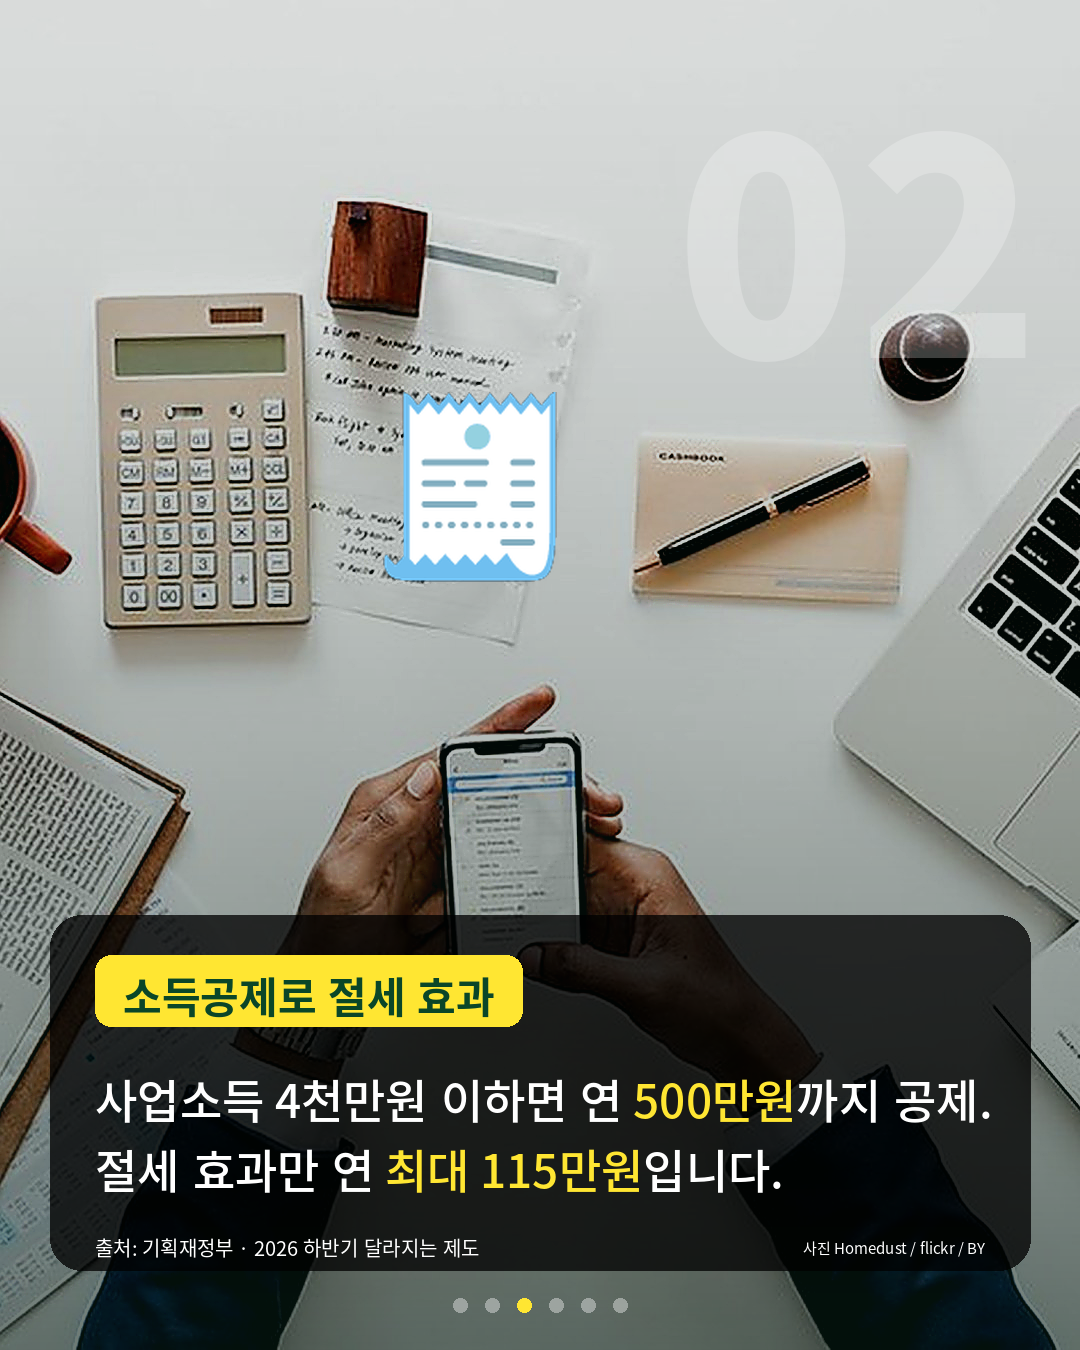
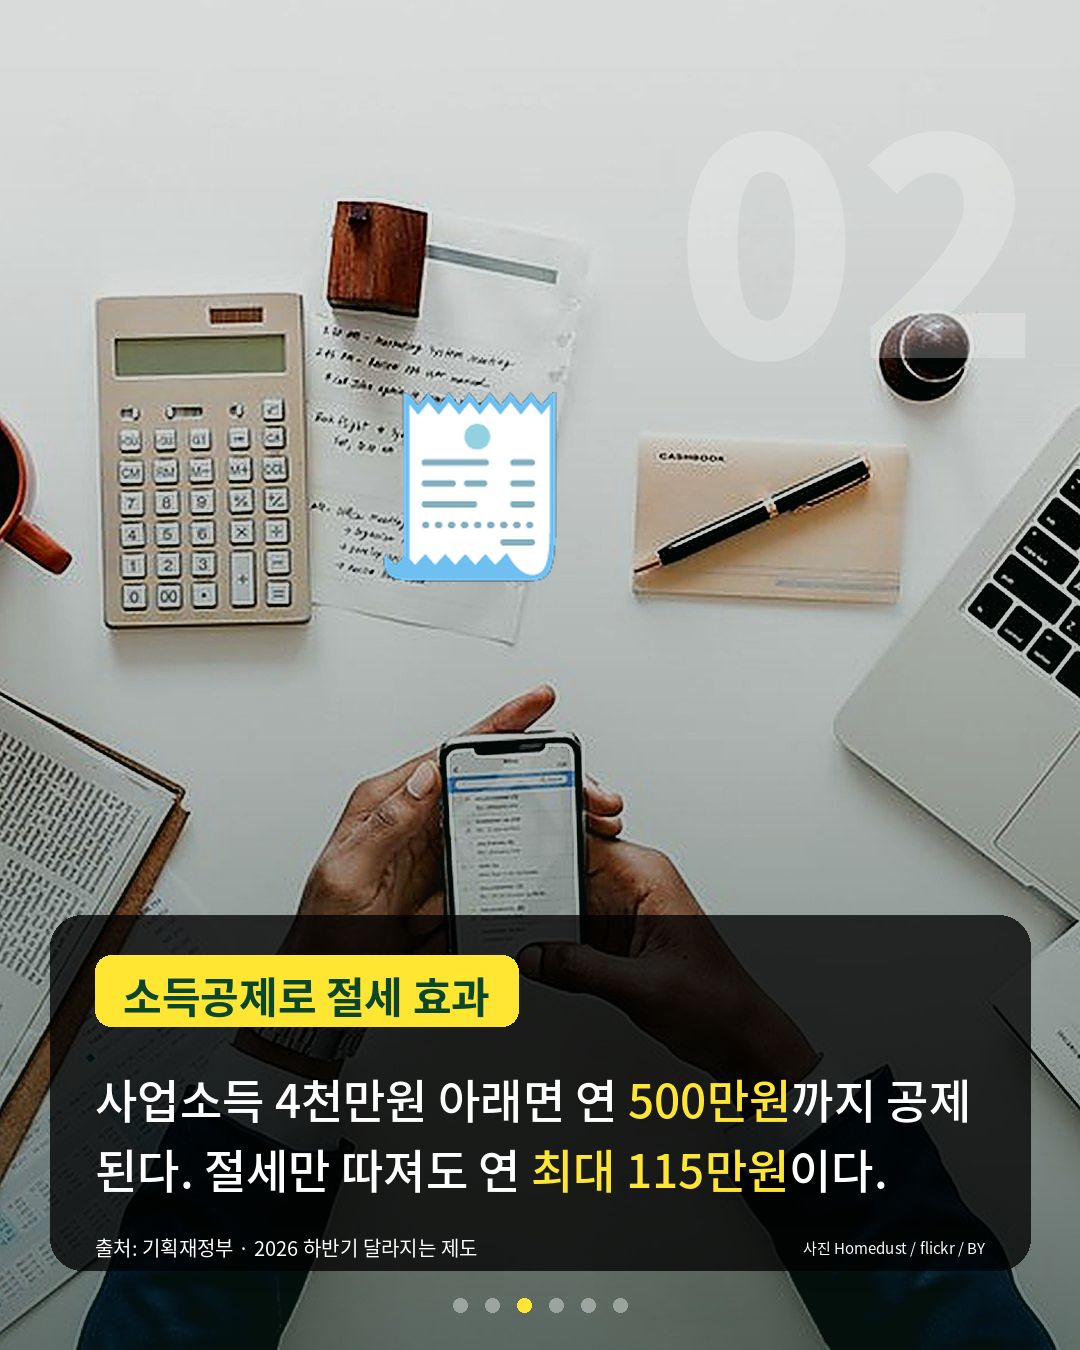
본문을 경상도 사투리로 — 계정 컨셉과 톤 일치
계정명 "쫌봐봐"는 사투리인데 본문·안내 문구는 표준어 존댓말이라
간판과 속이 따로 놀았다. 사투리가 장식으로 보이지 않게 톤을 맞춘다.

- 대본 3편의 커버·본문을 경상도 말투로 교체. 수치·날짜·기관명은 불변
- 고정 문구도 동일 톤으로: 스와이프 "옆으로 쫌 봐봐",
  아웃트로 "도움 됐으면 / 팔로우하고 저장해두이소 / 매일 쫌 봐봐"
- 계정 핸들을 IG_HANDLE 환경변수로 분리 (새 계정으로 옮길 때 한 줄만 바꾸면 됨)
- scriptgen 프롬프트에 말투 규칙 추가 — 어미·리듬으로만 사투리를 내고
  방언 어휘는 피한다(전국 독자), "다 아이가"류는 장면당 1회 제한,
  숫자·기관명 변경 금지

Claude-Session: https://claude.ai/code/session_01W4yCPYAiRNGdqbEFr8kcA6

Changed region(s): [[0.0917, 0.7778, 0.9167, 0.9333], [0.3056, 0.7156, 0.4889, 0.7467]]

diff --git a/cardnews.py b/cardnews.py
@@ -124,6 +124,19 @@ DEF_THEME = {
 WHITE = (255, 255, 255)
 DARK  = (20, 20, 25)
 
+# ── 고정 문구 ──────────────────────
+# 계정 말투가 경상도 사투리라, 이름만 사투리고 본문·안내가 표준어면
+# 간판과 속이 따로 논다. 고정 문구도 같은 말투로 맞춘다.
+# 핸들은 계정이 바뀔 수 있으므로 환경변수로 뺀다.
+HANDLE = os.environ.get("IG_HANDLE", "@richup_bm_sw")
+UI = {
+    "swipe":    "옆으로 쫌 봐봐",
+    "outro1":   "도움 됐으면",
+    "outro2":   "팔로우하고 저장해두이소",
+    "outro_s1": "세상 돌아가는 이야기",
+    "outro_s2": "매일 쫌 봐봐",
+}
+
 def get_t(cat):
     return THEMES.get(cat, DEF_THEME)
 
@@ -462,7 +475,7 @@ def make_cover(sc, t, photo=None, credit=None):
 
     # 스와이프 안내 (이모지 + 텍스트 분리 렌더)
     sf = font(FONT_BOLD, 28)
-    swipe = "밀어서 자세히 보기"
+    swipe = UI["swipe"]
     bb = d.textbbox((0,0), swipe, font=sf)
     sx = (W - (bb[2]-bb[0]) - 46)//2
     paste_emoji(img, "👉", sx + 17, H-82, 34)
@@ -586,21 +599,21 @@ def make_outro(sc, t, total):
 
     y = cy + cr + 64
     f1 = font(FONT_BLACK, 54)
-    for txt, col in [("도움이 되셨다면", WHITE), ("팔로우 & 저장 해주세요!", t["accent"])]:
+    for txt, col in [(UI["outro1"], WHITE), (UI["outro2"], t["accent"])]:
         bb = d.textbbox((0,0), txt, font=f1)
         d.text(((W-(bb[2]-bb[0]))//2, y), txt, font=f1, fill=col)
         y += 80
 
     y += 24
     f2 = font(FONT_MED, 32)
-    for txt in ["매일 알아두면 좋은 생활 정보를", "카드뉴스로 전해드립니다"]:
+    for txt in [UI["outro_s1"], UI["outro_s2"]]:
         bb = d.textbbox((0,0), txt, font=f2)
         d.text(((W-(bb[2]-bb[0]))//2, y), txt, font=f2, fill=(255, 255, 255, 210))
         y += 50
 
     # 핸들
     hf = font(FONT_BOLD, 38)
-    handle = "@richup_bm_sw"
+    handle = HANDLE
     hb = d.textbbox((0,0), handle, font=hf)
     d.text(((W-(hb[2]-hb[0]))//2, handle_y+24), handle, font=hf, fill=t["accent"])
 

diff --git a/scriptgen.py b/scriptgen.py
@@ -446,6 +446,18 @@ LLM_SYSTEM = """당신은 이슈 릴스 계정의 대본 작가입니다.
 - 수치는 읽기 쉽게: "230000만원"이 아니라 "23억원", "84.99제곱미터"가 아니라 "84제곱미터"
 - 마지막 장면은 항상 팔로우 유도
 
+## 말투 — 경상도 사투리 (계정 컨셉)
+계정 이름이 "쫌봐봐"이고 경상도 말투가 컨셉입니다. 본문(body)은 사투리로 씁니다.
+
+- 어미를 경상도식으로: "~입니다/~습니다" → "~다", "~한다", "~된다", "~라"
+  (예: "금지됩니다" → "금지다", "확대됩니다" → "더 늘린다", "설치하세요" → "깔아둬라")
+- 한 장면에 "~다 아이가", "~제" 같은 표현을 **최대 한 번만**. 남발하면 느끼해집니다
+- 난해한 방언 어휘는 쓰지 마세요. 전국 팔로워가 읽습니다.
+  어미와 리듬으로 경상도를 내고, 단어는 표준어를 씁니다
+- **숫자·날짜·기관명·제도명은 절대 바꾸지 마세요.** 말투만 바꿉니다
+  ("8월 28일", "최대 50배", "문화체육관광부"는 그대로)
+- 비아냥·반말 명령조는 금지. 친한 동네 형이 알려주는 톤입니다
+
 ## 자막
 - **22자 이내**. 내레이션을 그대로 넣지 마세요
 - 핵심 명사구만. 어미를 자르지 마세요
